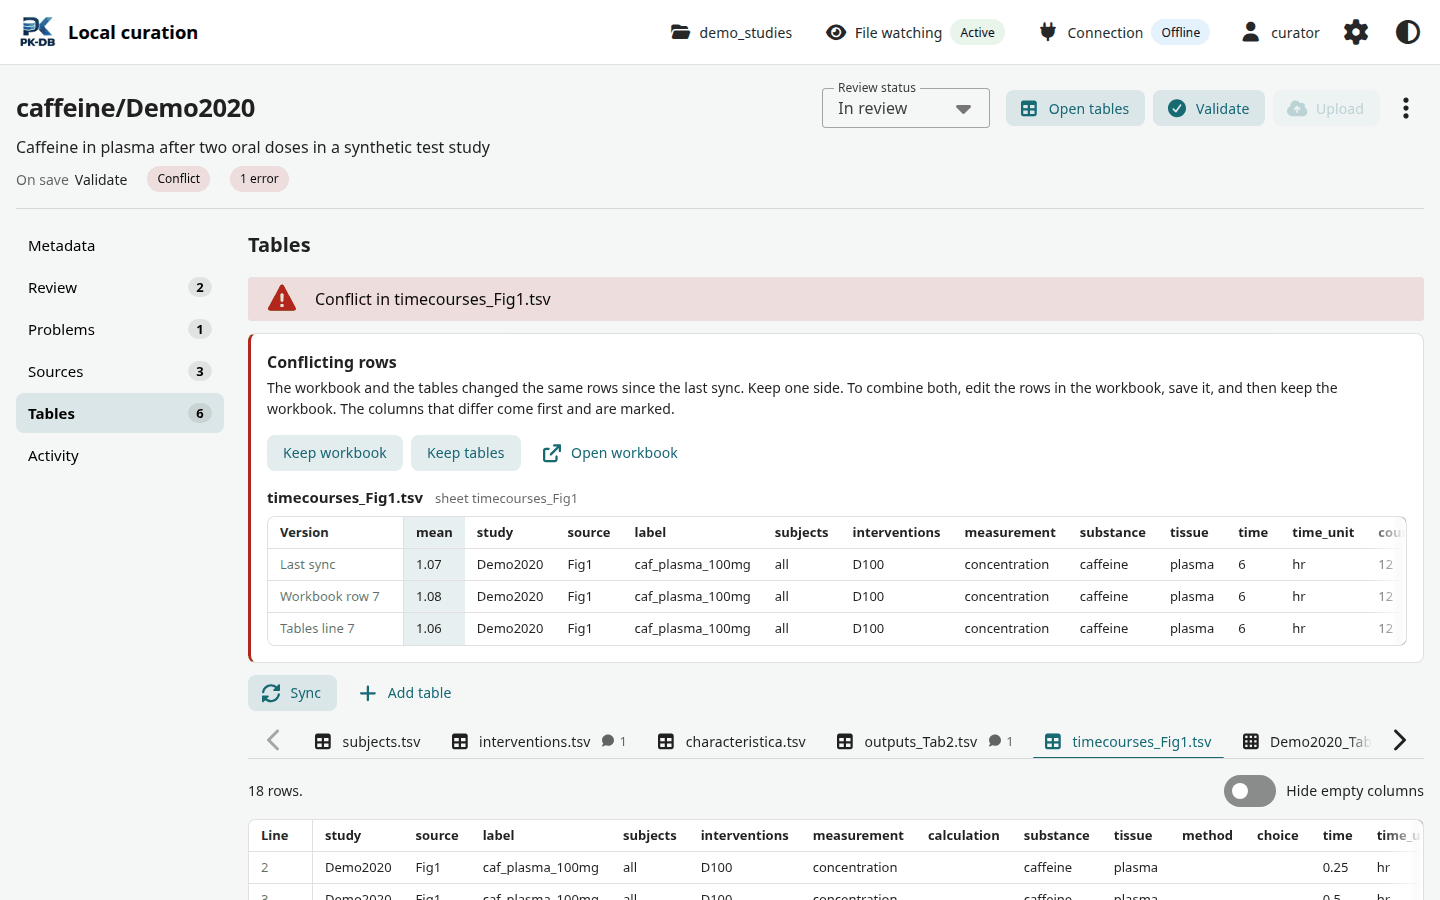
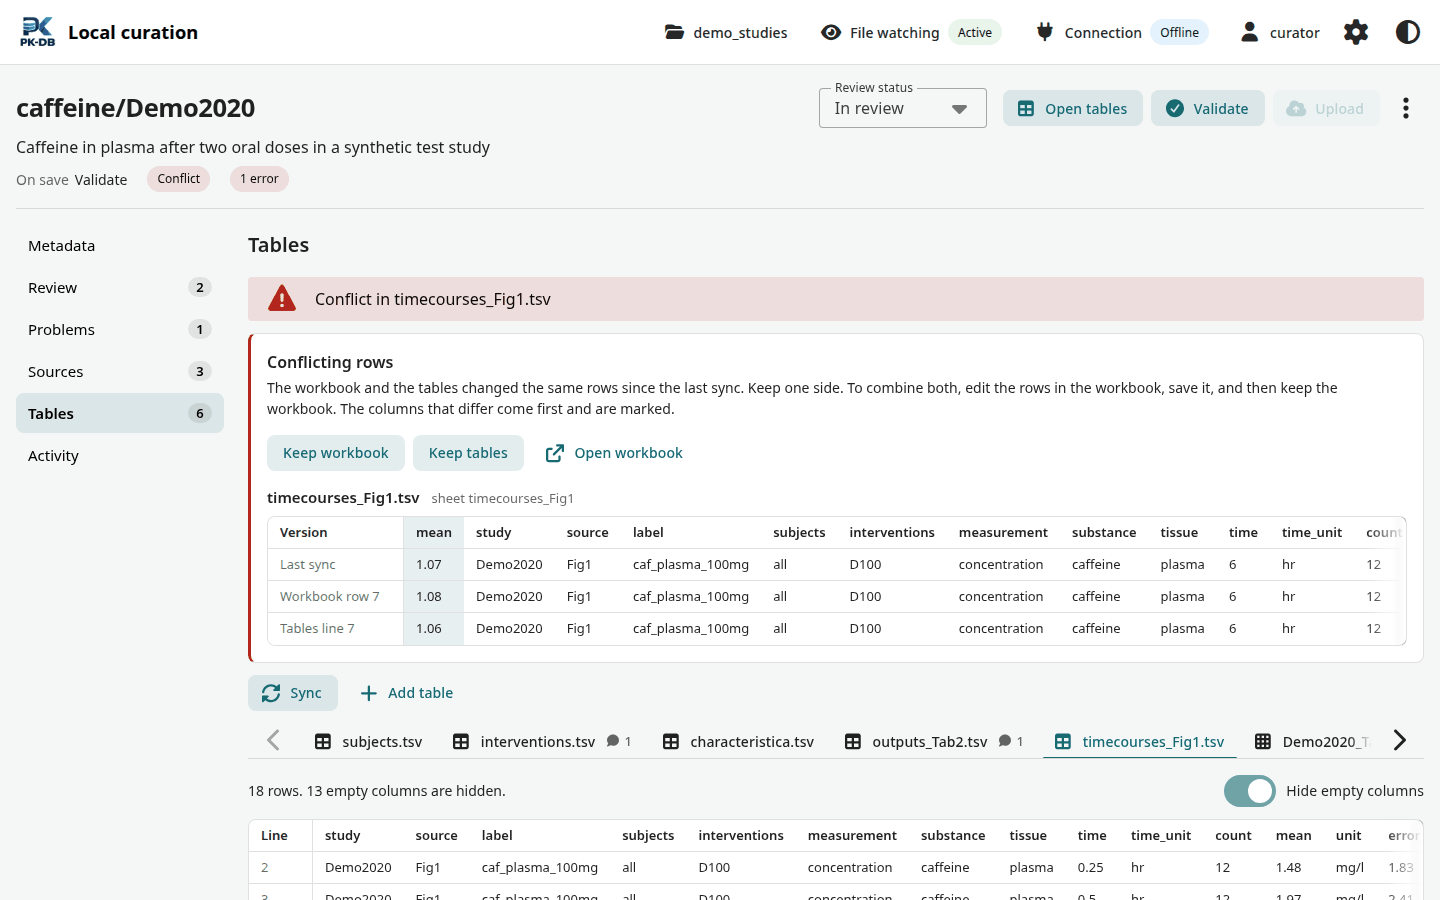
Hide the empty columns of the Tables section by default (#907)
Most study format 2 tables leave many of their fixed columns empty, such as calculation, method or choice, so the Tables section of the local curation app now opens with Hide empty columns on; the line above the grid counts the hidden columns, and the switch shows them again. The screenshot of the Tables section in the guide is rendered again.

diff --git a/frontend/tests/components/curation-tables-section.spec.ts b/frontend/tests/components/curation-tables-section.spec.ts
@@ -464,7 +464,7 @@ describe("tabs", () => {
     expect(rows[1]!.findAll("td")[4]!.classes()).toContain("grid-cell--error");
     expect(rows[2]!.findAll("td")[6]!.classes()).toContain("grid-cell--warning");
     expect(panel().get(".tables-caption").text()).toBe(
-      "3 rows. Open review items target 1 row. 2 problems are outlined.",
+      "3 rows. Open review items target 1 row. 2 problems are outlined. 1 empty column is hidden.",
     );
   });
 
@@ -486,7 +486,7 @@ describe("tabs", () => {
       `${SECTION}?file=outputs_Tab2.tsv`,
     );
     expect(panel().get(".tables-caption").text()).toBe(
-      "3 rows. 2 open review items are about the whole table. 1 open review item matches no row.",
+      "3 rows. 2 open review items are about the whole table. 1 open review item matches no row. 1 empty column is hidden.",
     );
   });
 
@@ -541,11 +541,9 @@ describe("tabs", () => {
     ]);
   });
 
-  it("hides empty columns", async () => {
+  it("hides empty columns until the switch shows them", async () => {
     await mountSection(detail(), {}, `${SECTION}?file=outputs_Tab2.tsv`);
-    expect(panel().findAll("thead th")).toHaveLength(OUTPUTS_HEADER.length + 1);
-    await page().get('input[type="checkbox"]').setValue(true);
-    await flushPromises();
+    expect(page().get('input[type="checkbox"]').element).toHaveProperty("checked", true);
     expect(panel().findAll("thead th").map((cell) => cell.text())).toEqual([
       "Line",
       "study",
@@ -557,6 +555,10 @@ describe("tabs", () => {
       "unit",
     ]);
     expect(panel().get(".tables-caption").text()).toContain("1 empty column is hidden.");
+    await page().get('input[type="checkbox"]').setValue(false);
+    await flushPromises();
+    expect(panel().findAll("thead th")).toHaveLength(OUTPUTS_HEADER.length + 1);
+    expect(panel().get(".tables-caption").text()).not.toContain("hidden");
   });
 
   it("opens the table of a problem and moves the focus to its cell", async () => {

diff --git a/frontend/src/curation-app/sections/TablesSection.vue b/frontend/src/curation-app/sections/TablesSection.vue
@@ -136,7 +136,8 @@ const { data, error, loading, reload } = useLoaded<TableResponse, StudyDetail | 
 /** The rows of the chosen table; null while another one is shown or it loads. */
 const table = computed(() => (data.value && data.value.key === selected.value ? data.value.content : null));
 
-const hideEmpty = ref(false);
+// Most tables leave many of their fixed columns empty, so they are hidden until the curator shows them.
+const hideEmpty = ref(true);
 /**
  * The study page that the rows were loaded for. Its review items and the lines that the local
  * server matched for them belong to these rows: after a table changed, a newer page can arrive

diff --git a/docs/local-curation.md b/docs/local-curation.md
@@ -162,7 +162,7 @@ The Tables section starts with the sync status of the workbook `<name>.xlsx` and
 
 When the workbook and the tables conflict, the panel **Conflicting rows** shows the rows of each conflicting table in one grid: the rows of the last sync, the rows of the workbook and the lines of the TSV file. The columns that differ come first and are marked. **Keep workbook** or **Keep tables** resolves all conflicts with one side. To combine both, edit the rows in the workbook, save it, and keep the workbook. **Open workbook** opens it. Validation and upload wait until the conflict is resolved.
 
-Below the status are **Sync**, which syncs at once, and **Add table**, then a tab for each table and raw table. A tab counts the problems and the open review items of its table. The grid is read only. Its line numbers are the lines of the TSV file, the rows that open review items target are amber, and the cells with problems are outlined. **Hide empty columns** hides the columns without values.
+Below the status are **Sync**, which syncs at once, and **Add table**, then a tab for each table and raw table. A tab counts the problems and the open review items of its table. The grid is read only. Its line numbers are the lines of the TSV file, the rows that open review items target are amber, and the cells with problems are outlined. **Hide empty columns** hides the columns without values; it is on when the section opens, and the line above the grid counts the hidden columns.
 
 ### Activity
 

diff --git a/release-notes/unreleased.md b/release-notes/unreleased.md
@@ -5,3 +5,5 @@
 - `pkdb upload` of a parent folder uploads the other studies when some of them share a study identifier or a publication and source (#904). Before, one such pair, such as two pkdb_data folders whose `study.json` names the same PubMed ID, stopped the whole batch with `Multiple studies claim reference ...` before any upload; now each study of the pair fails with `identity_conflict` and names the others, because PK-DB keeps one study per publication and source and the order of the uploads would decide which one.
 
 - `pkdb curate` without the built app names the folder where it looked and the source checkout that runs. Before, it only said `The curation app is not built. Run npm ci and npm run build:curation in frontend/.`, so a user with an installed release and an active virtual environment of a pkdb checkout could not tell that the checkout ran instead of the release. The guide of the local curation app no longer says that `pkdb curate` is missing from the releases; it is part of `pkdb` since 0.12.1.
+
+- The Tables section of the local curation app hides the empty columns when it opens, because most tables leave many of their fixed columns empty. The switch **Hide empty columns** shows them again.
